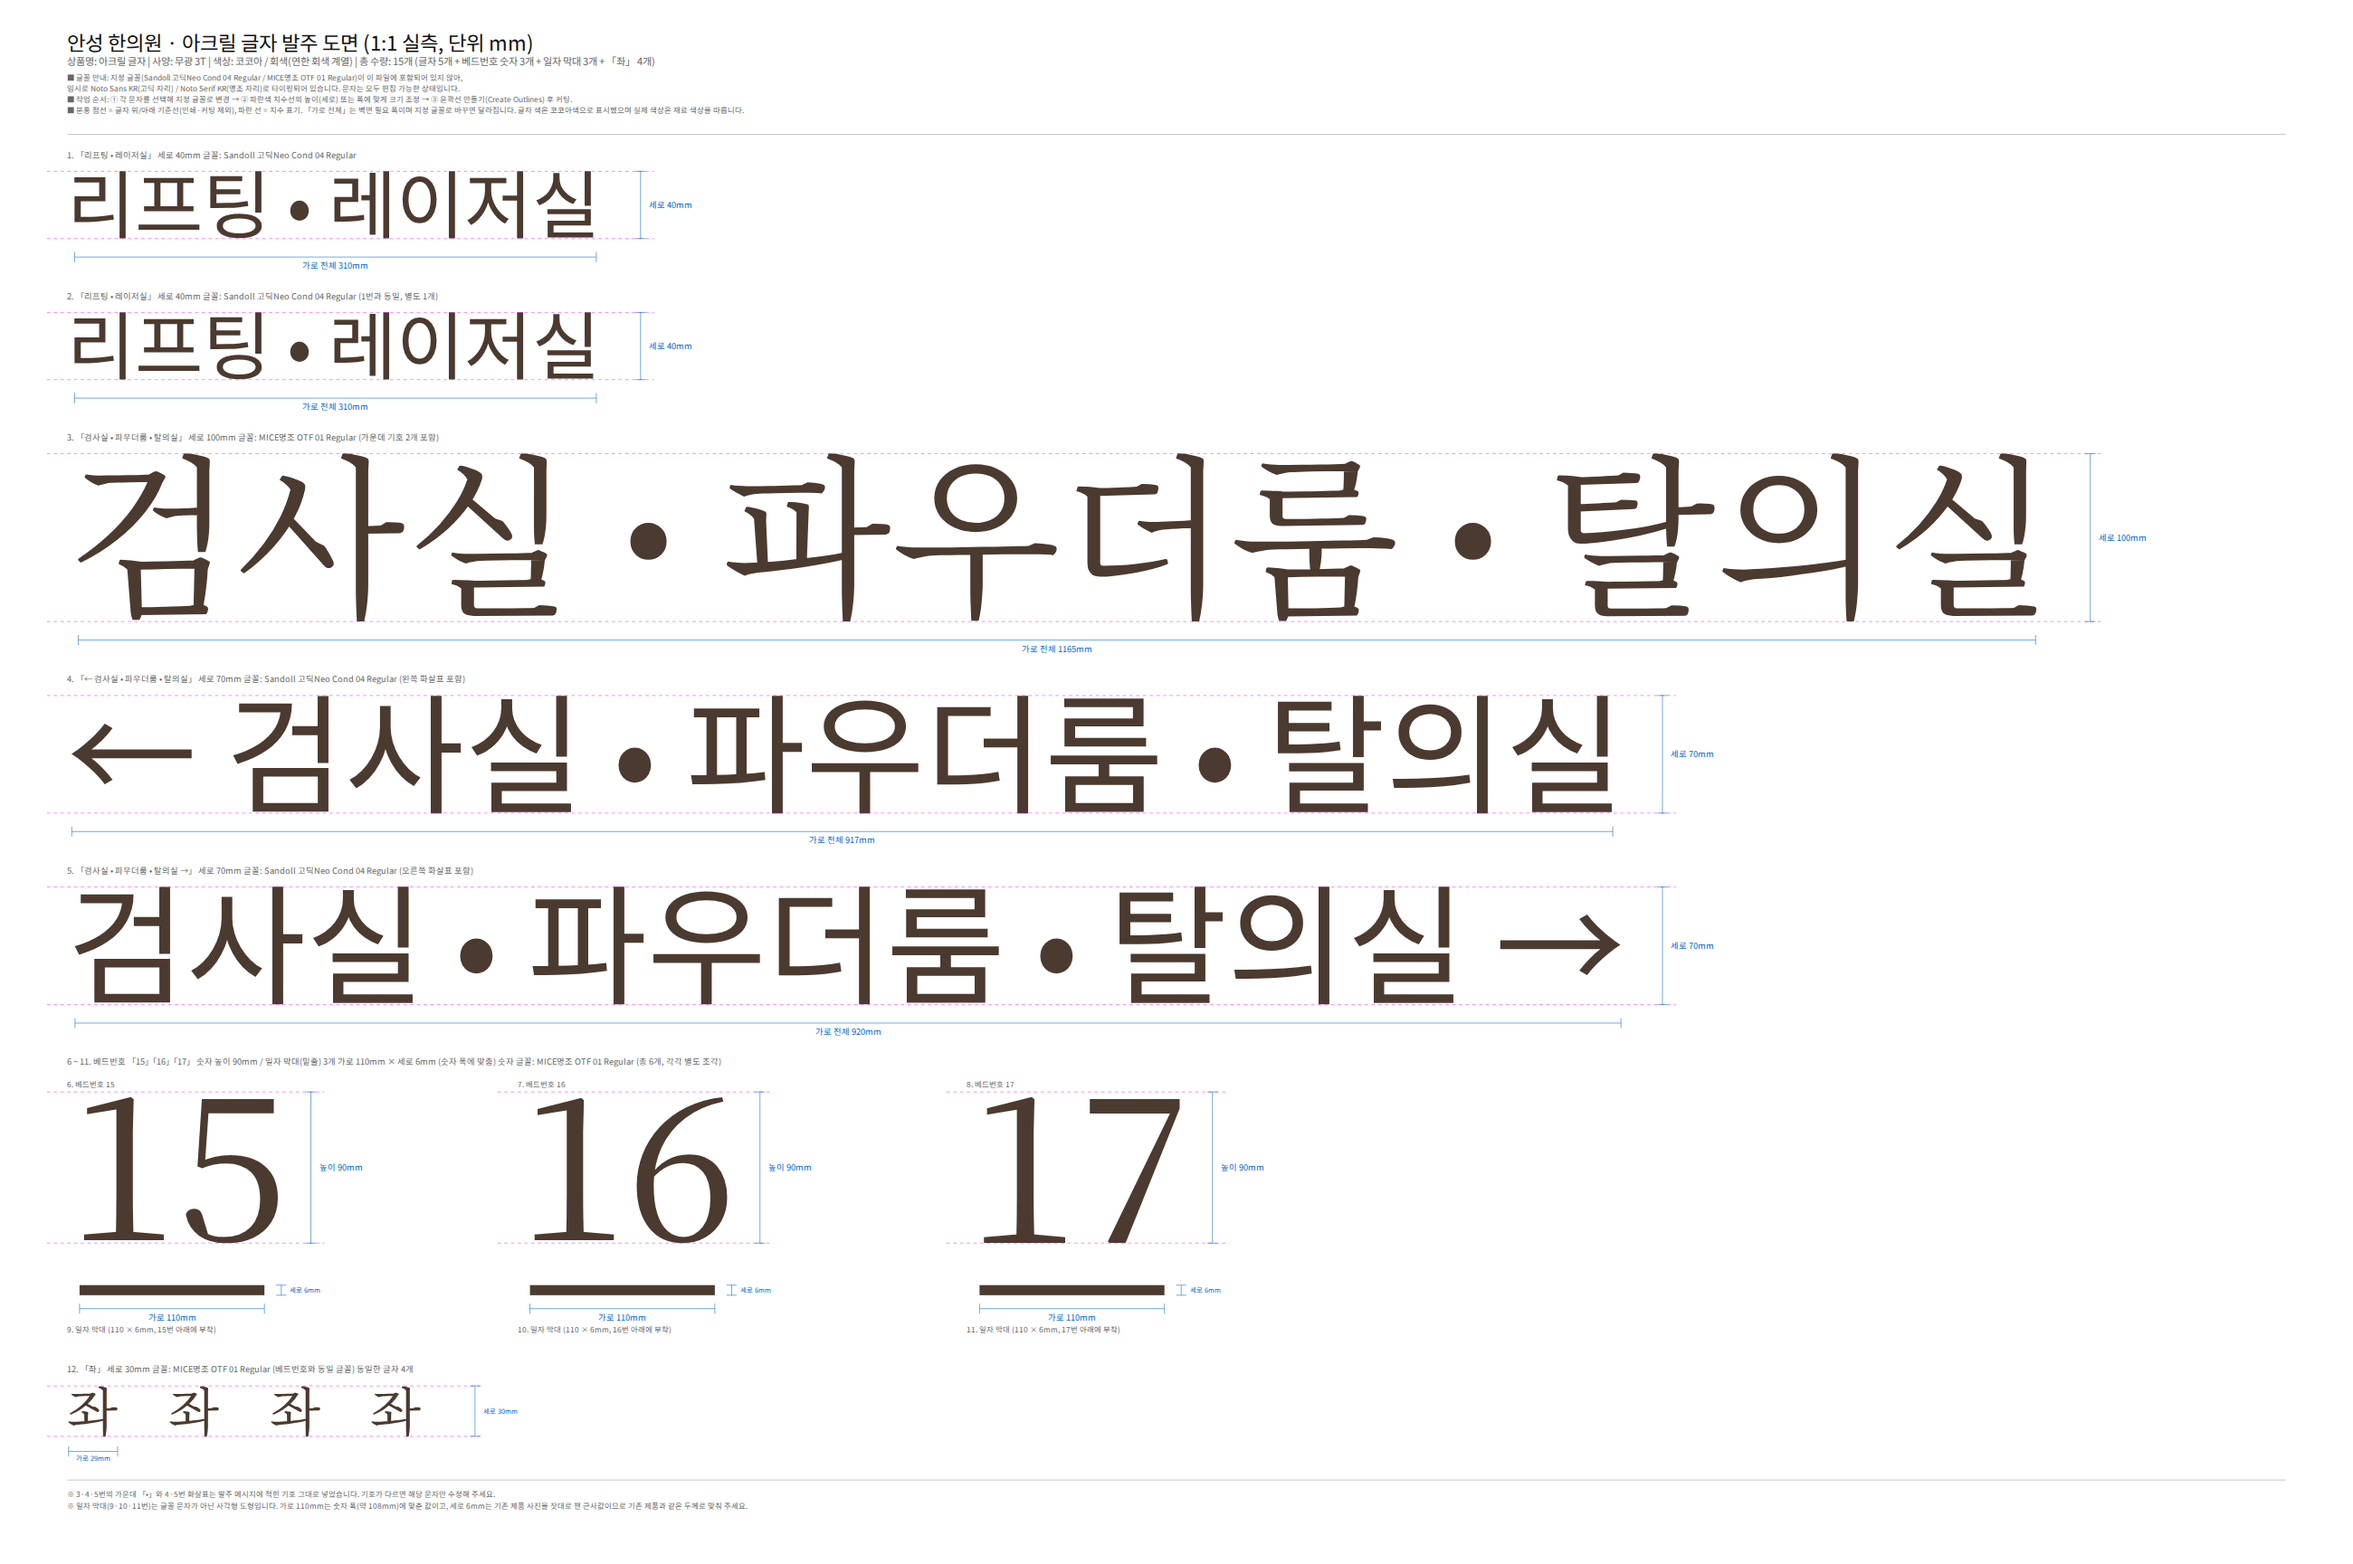
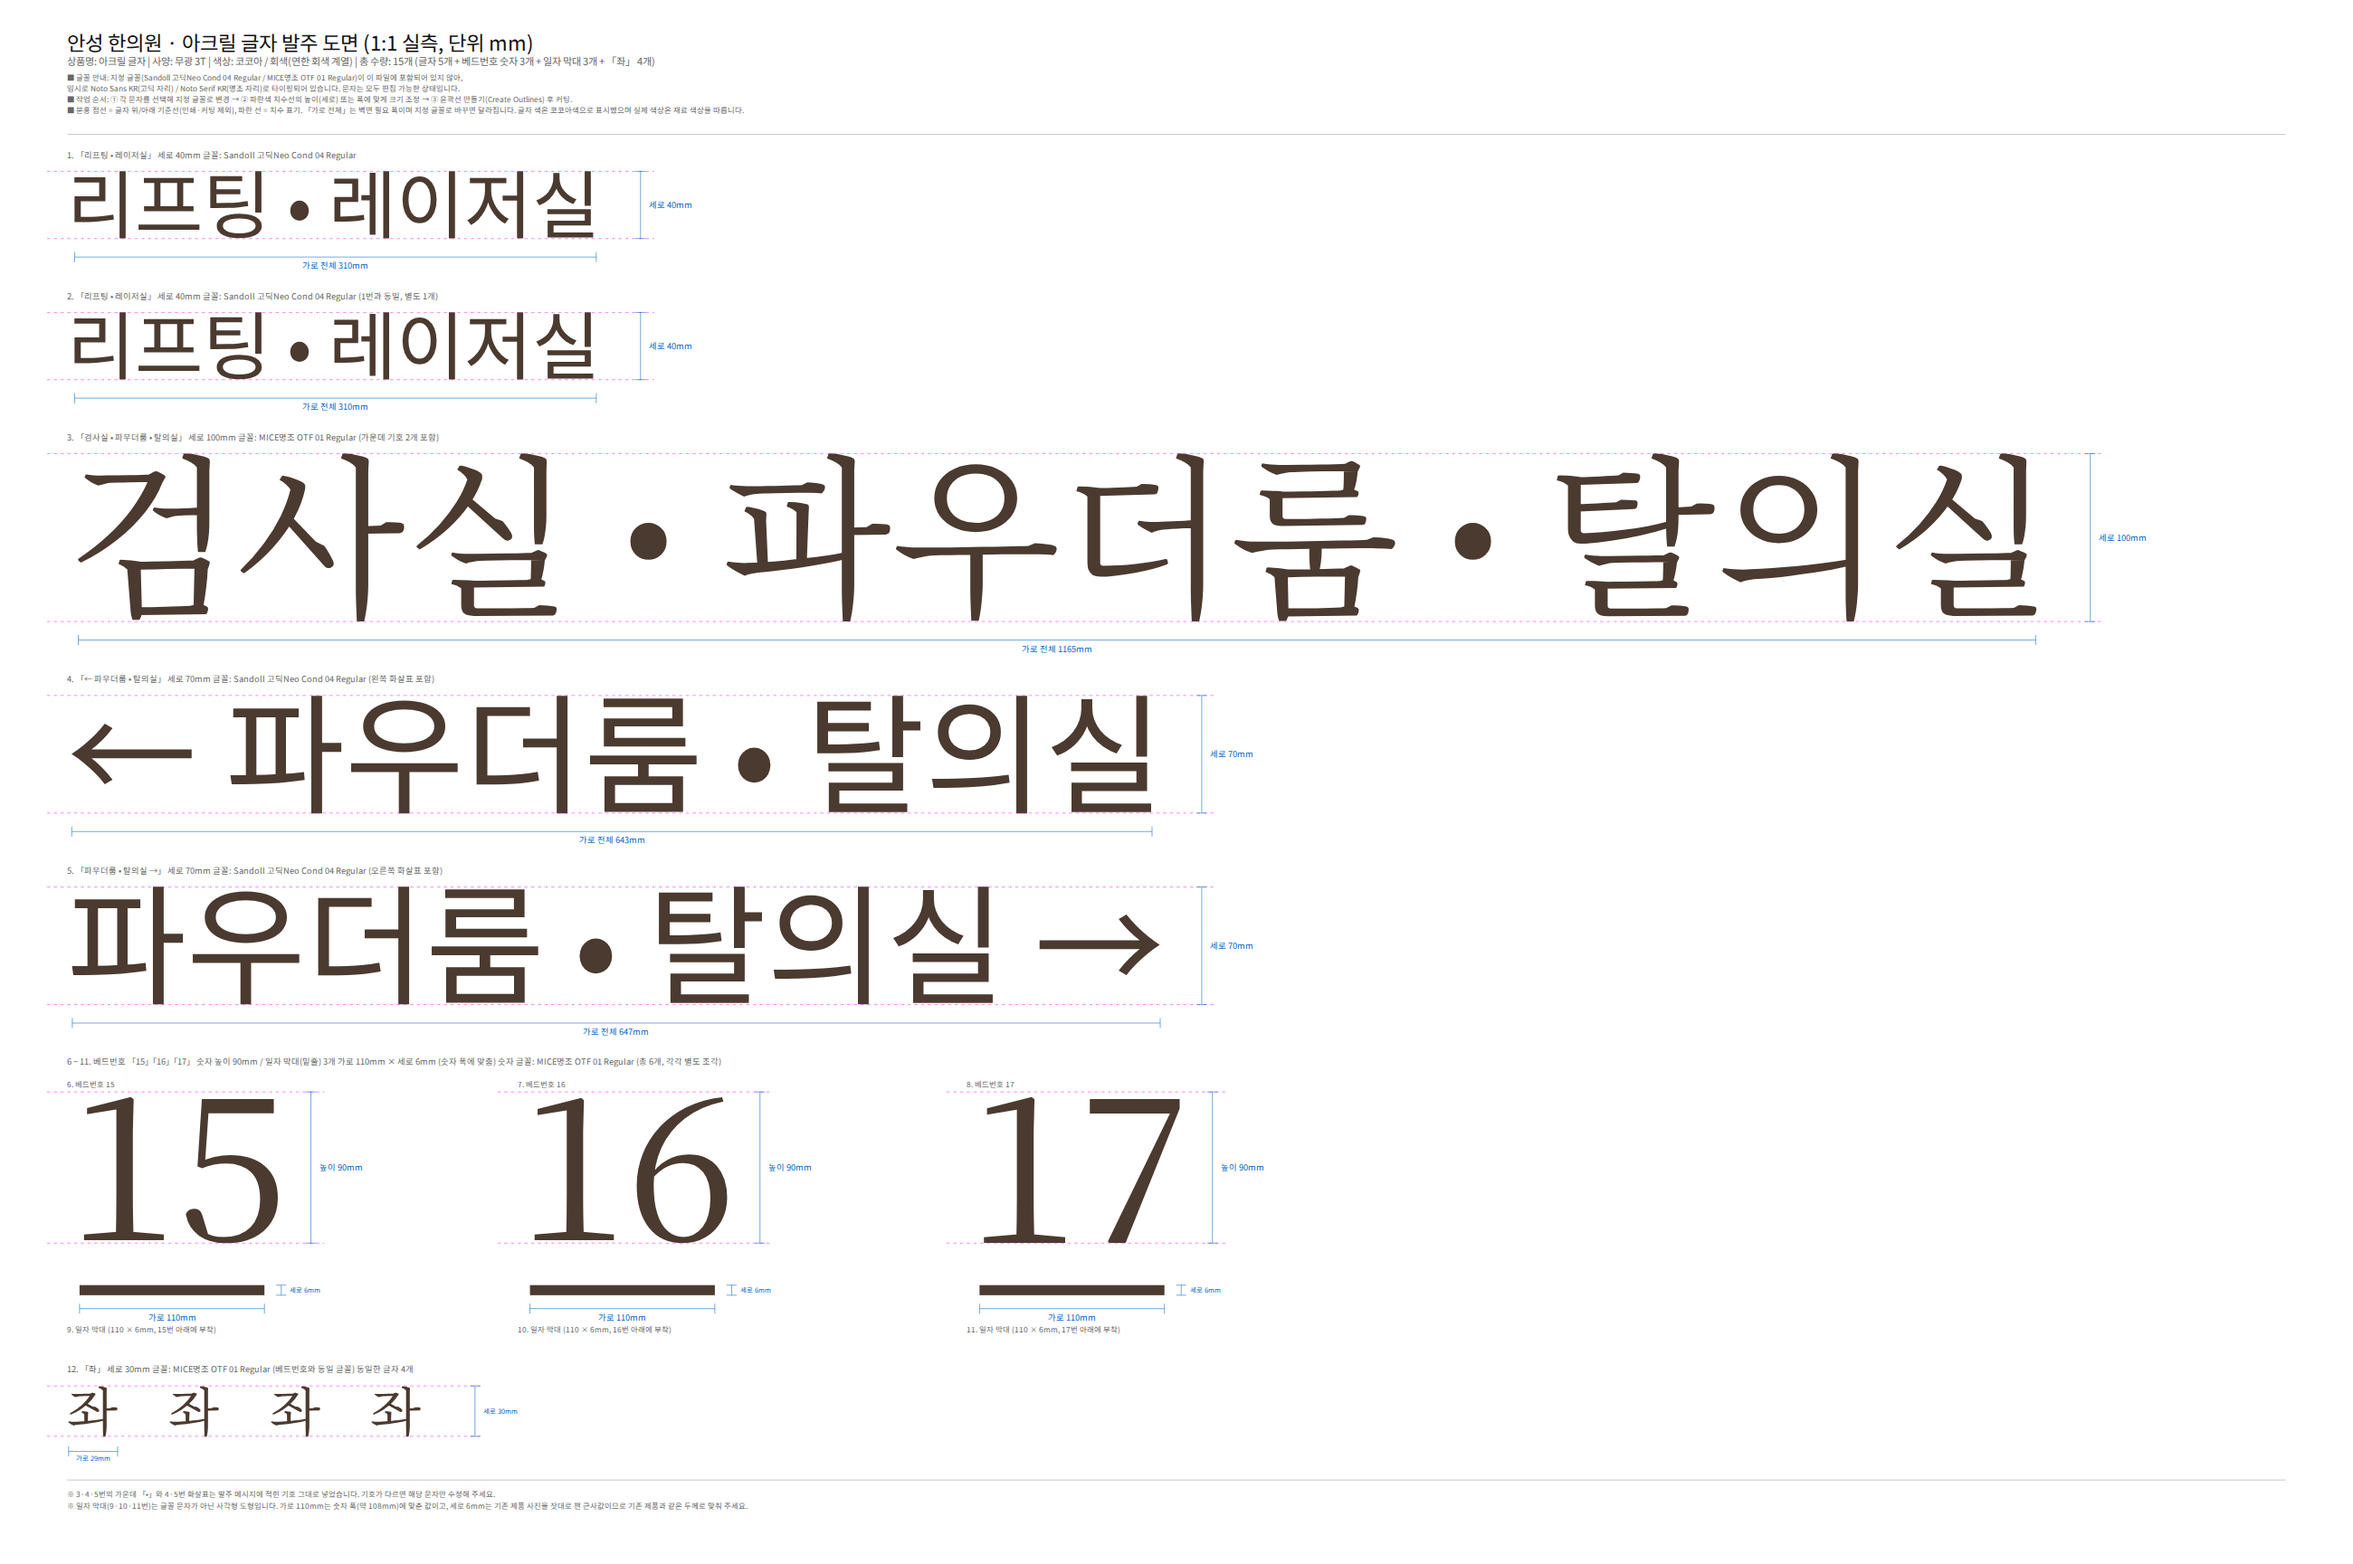
docs: 도면 문구 확정 및 「좌」 4개 추가
100mm 대형 안내판(3번)만 검사실·파우더룸·탈의실 세 곳을 모두 표기하고,
화살표가 있는 70mm 두 개는 파우더룸·탈의실만 남김.
베드번호와 같은 명조체로 「좌」 30mm 4개를 12번 항목으로 추가.
각 글자 항목에 벽면 필요 폭 확인용 가로 치수를 넣고 도면 폭을 1400mm로 확대.

Claude-Session: https://claude.ai/code/session_01Vp3V63HRwpGkKQ9XPHHhgr

Changed region(s): [[0.0312, 0.406, 0.6854, 0.6559]]

diff --git a/docs/사인물/아크릴글자/make_sign.py b/docs/사인물/아크릴글자/make_sign.py
@@ -112,8 +112,8 @@ def spec_item(num, s, font, h, qty_note=""):
 spec_item(1, "리프팅 • 레이저실", "sans", 40)
 spec_item(2, "리프팅 • 레이저실", "sans", 40, "(1번과 동일, 별도 1개)")
 spec_item(3, "검사실 • 파우더룸 • 탈의실", "serif", 100, "(가운데 기호 2개 포함)")
-spec_item(4, "← 검사실 • 파우더룸 • 탈의실", "sans", 70, "(왼쪽 화살표 포함)")
-spec_item(5, "검사실 • 파우더룸 • 탈의실 →", "sans", 70, "(오른쪽 화살표 포함)")
+spec_item(4, "← 파우더룸 • 탈의실", "sans", 70, "(왼쪽 화살표 포함)")
+spec_item(5, "파우더룸 • 탈의실 →", "sans", 70, "(오른쪽 화살표 포함)")
 
 # 6~11: 베드번호 숫자 3개 + 일자 막대 3개
 text(L, y, "6 ~ 11. 베드번호 「15」「16」「17」 숫자 높이 90mm  /  일자 막대(밑줄) 3개 가로 110mm × 세로 6mm (숫자 폭에 맞춤)   숫자 글꼴: MICE명조 OTF 01 Regular   (총 6개, 각각 별도 조각)", "sans", 5, GRAY); y += 16
